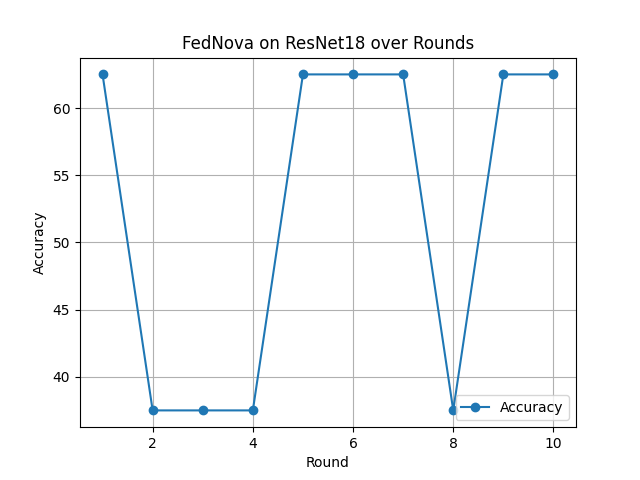
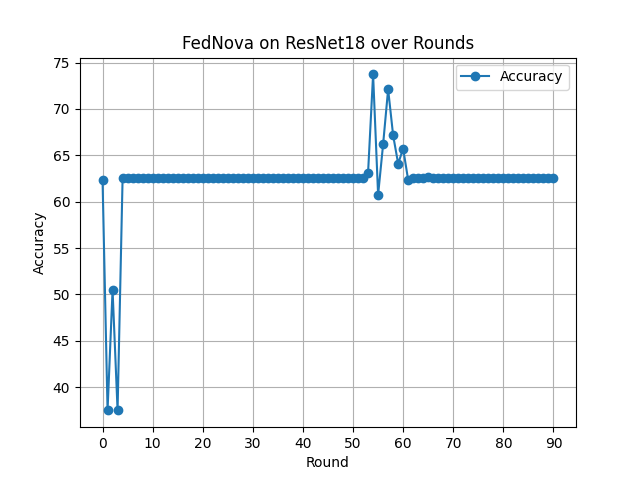
fednova v2

diff --git a/data_utils.py b/data_utils.py
@@ -19,7 +19,7 @@ import matplotlib
 matplotlib.use('Agg')  # Chuyển sang backend không cần GUI
 
 print('BACKEND: ', matplotlib.get_backend())
-NUM_WORKERS = 10
+NUM_WORKERS = 6
 # def get_custom_dataset(data_path: str = "/media/namvq/Data/chest_xray"):
 #     """Load custom dataset and apply transformations."""
 #     transform = Compose([
@@ -62,20 +62,43 @@ NUM_WORKERS = 10
 #     trainset = ImageFolder(os.path.join(data_path, 'train'), transform=train_transform)
 #     testset = ImageFolder(os.path.join(data_path, 'test'), transform=test_transform)
 #     return trainset, testset
-def get_custom_dataset(data_path: str = "/media/namvq/Data/chest_xray"):
+# def get_custom_dataset(data_path: str = "/home/namvq1/Documents/chest_xray"):
+#     """Load custom dataset and apply transformations."""
+#     train_transform = transforms.Compose([
+#         transforms.Resize((150, 150)),  # Kích thước ảnh cho VGG
+#         transforms.RandomAffine(degrees=0, shear=10),
+#         transforms.RandomHorizontalFlip(),
+#         transforms.RandomResizedCrop(150, scale=(0.8, 1.0)),
+#         transforms.RandomAffine(degrees=0, translate=(0.2, 0)),
+#         transforms.ToTensor(),
+#         transforms.Normalize([0.485, 0.456, 0.406],  # Mean chuẩn của ImageNet
+#                              [0.229, 0.224, 0.225])  # Std chuẩn của ImageNet
+#     ])
+#     test_transform = transforms.Compose([
+#         transforms.Resize((150, 150)),  # Kích thước ảnh cho VGG
+#         transforms.ToTensor(),
+#         transforms.Normalize([0.485, 0.456, 0.406],  # Mean chuẩn của ImageNet
+#                              [0.229, 0.224, 0.225])  # Std chuẩn của ImageNet
+#     ])
+#     trainset = ImageFolder(os.path.join(data_path, 'train'), transform=train_transform)
+#     testset = ImageFolder(os.path.join(data_path, 'test'), transform=test_transform)
+#     return trainset, testset
+
+def get_custom_dataset(data_path: str = "/home/namvq1/Documents/chest_xray"):
+    #For resnet 
     """Load custom dataset and apply transformations."""
     train_transform = transforms.Compose([
-        transforms.Resize((150, 150)),  # Kích thước ảnh cho VGG
+        transforms.Resize(256),  # Kích thước ảnh cho Resnet
         transforms.RandomAffine(degrees=0, shear=10),
         transforms.RandomHorizontalFlip(),
-        transforms.RandomResizedCrop(150, scale=(0.8, 1.0)),
+        transforms.RandomResizedCrop(224, scale=(0.8, 1.0)),
         transforms.RandomAffine(degrees=0, translate=(0.2, 0)),
         transforms.ToTensor(),
         transforms.Normalize([0.485, 0.456, 0.406],  # Mean chuẩn của ImageNet
                              [0.229, 0.224, 0.225])  # Std chuẩn của ImageNet
     ])
     test_transform = transforms.Compose([
-        transforms.Resize((150, 150)),  # Kích thước ảnh cho VGG
+        transforms.Resize((224, 224)),  # Kích thước ảnh cho VGG
         transforms.ToTensor(),
         transforms.Normalize([0.485, 0.456, 0.406],  # Mean chuẩn của ImageNet
                              [0.229, 0.224, 0.225])  # Std chuẩn của ImageNet
@@ -83,6 +106,7 @@ def get_custom_dataset(data_path: str = "/media/namvq/Data/chest_xray"):
     trainset = ImageFolder(os.path.join(data_path, 'train'), transform=train_transform)
     testset = ImageFolder(os.path.join(data_path, 'test'), transform=test_transform)
     return trainset, testset
+
 
 
 def prepare_dataset_for_centralized_train(batch_size: int, val_ratio: float = 0.1, seed: int = 42):

diff --git a/federated_training.py b/federated_training.py
@@ -1,5 +1,5 @@
 import torch
-from model import ResNet18, VGG11Model
+from model import ResNet18, ResNet50, VGG11Model
 import torch.optim as optim 
 import copy
 import random 
@@ -8,13 +8,15 @@ import time
 import matplotlib.pyplot as plt
 
 def federated_train(trainloaders, valloaders, testloader, config):
-    # model = ResNet18(num_classes=2)
     model = ResNet18(num_classes=2)
+    # model = ResNet50(num_classes=2)
+    # model = VGG11Model(num_classes=2)
     global_model = copy.deepcopy(model)  # Bản sao mô hình toàn cục
         
     num_rounds = config.num_rounds  # Số vòng huấn luyện
     accs = []
 
+    accs.append(evaluate(global_model, testloader)) #huan luyen 1 lan trc o server
     for round_num in range(num_rounds):
         print(f"Round {round_num + 1}/{num_rounds}")
         start = time.time()
@@ -64,13 +66,21 @@ def federated_train(trainloaders, valloaders, testloader, config):
         # global_model = fednova_update(global_model, len_data_local_select, local_deltas, taus)
         
         # Đánh giá mô hình trên tập kiểm tra
-        accs.append(evaluate(global_model, testloader))
+        acc = evaluate(global_model, testloader)
+        accs.append(acc)
+        # Điều chỉnh learning rate theo độ chính xác
+        if acc > 70.0:
+            config.learning_rate = 1e-5
+            print(f"Accuracy > 80%, decreasing learning rate to {config.learning_rate}")
+        elif acc > 65.0:
+            config.learning_rate = 1e-4
+            print(f"Accuracy > 70%, decreasing learning rate to {config.learning_rate}")
         end = time.time()
         print(f'Time for round {round_num + 1}: ', end-start)
     print('accuracies: ', accs)
-    plt.plot(range(1, num_rounds + 1), accs, marker='o', label='Accuracy')
+    plt.plot(range(0, num_rounds + 1), accs, marker='o', label='Accuracy')
     plt.xlabel('Round')
-    plt.xticks(range(1, num_rounds + 1))
+    plt.xticks(range(0, num_rounds + 1, 10))
     plt.ylabel('Accuracy')
     plt.title('FedNova on ResNet18 over Rounds')
     plt.grid(True)
@@ -101,7 +111,7 @@ def local_train(client, global_model, config, trainloader):
         lr=config.learning_rate, 
         momentum=config.momentum)
     tau = 0
-    print(f"Training on client {client}, device: {device}")
+    print(f"Training on client {client}, device: {device}, learning_rate={config.learning_rate}")
     # Huấn luyện mô hình trên client
     for epoch in range(config.num_epochs):
         for batch_idx, (data, target) in enumerate(trainloader[client]):

diff --git a/model.py b/model.py
@@ -17,8 +17,27 @@ class ResNet18(nn.Module):
     def forward(self, x):
         return self.model(x)
 
+
+class ResNet50(nn.Module):
+    def __init__(self, num_classes=2):
+        super(ResNet50, self).__init__()
+        self.model = models.resnet50(pretrained=True)  # Sử dụng ResNet50
+
+        # Điều chỉnh lại lớp phân loại (fc) với cấu trúc mới
+        self.model.fc = nn.Sequential(
+            nn.Flatten(),                     # Flatten đầu vào
+            nn.Linear(2048, 512),             # Chuyển từ 2048 (đặc trưng đầu ra của ResNet50) xuống 512
+            nn.ReLU(inplace=True),            # Hàm kích hoạt ReLU
+            nn.Linear(512, 128),              # Chuyển từ 512 xuống 128
+            nn.ReLU(inplace=True),            # Hàm kích hoạt ReLU
+            nn.Linear(128, num_classes)       # Output với số lớp bằng num_classes
+        )
+
+    def forward(self, x):
+        return self.model(x)  # Truyền dữ liệu qua mô hình ResNet50
+    
 if __name__ == '__main__':
-    model = ResNet18()
+    model = ResNet50()
     print(model)
 
 class VGG11Model(nn.Module):
